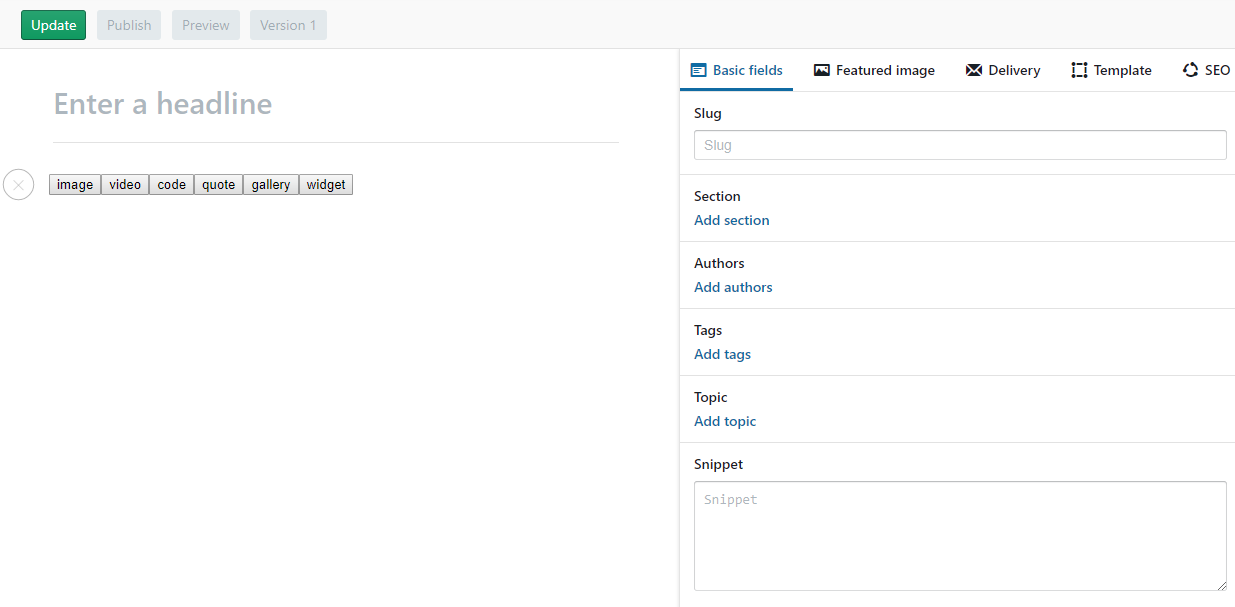
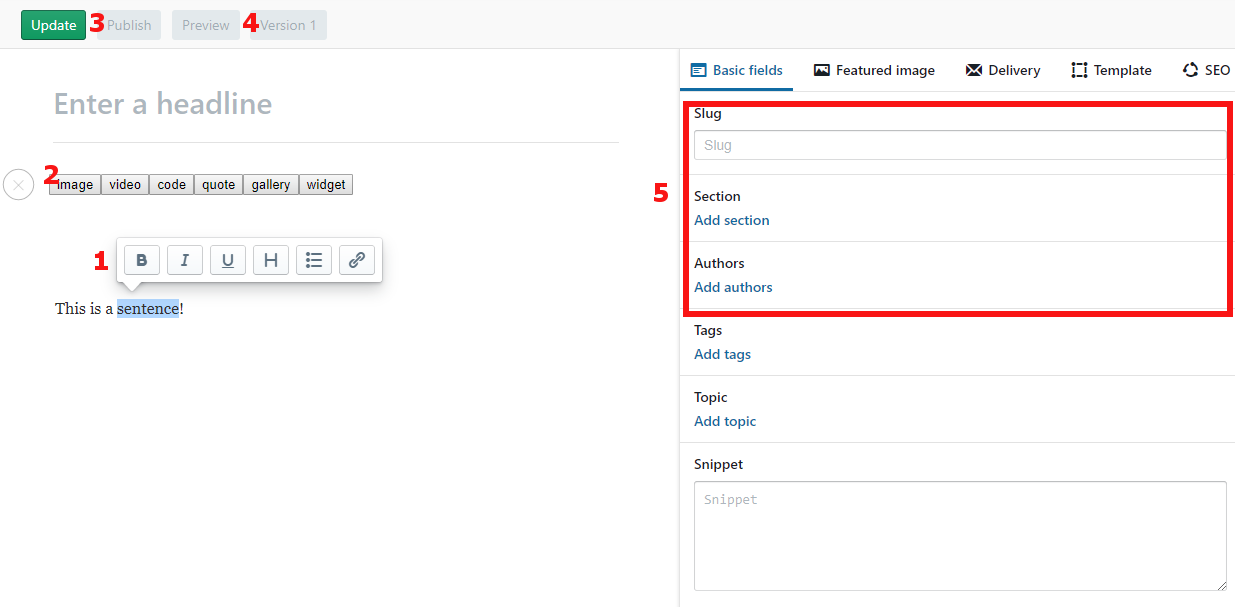
add reference points to editor image

diff --git a/docs/manager.md b/docs/manager.md
@@ -20,19 +20,19 @@ After creating at least one section, you can start creating articles.
 
 Click on the 'New Article' button on the dashboard, or on the section along the top to choose an existing article to edit.
 
-You can edit the article using the rich text editor on the left. Highlight a portion of text to bring up a menu to choose text styling options.
+You can edit the article using the rich text editor on the left. Highlight a portion of text to bring up a menu to choose text styling options. (1)
 
-To insert an embedded entity, such as an image, video, quote, image gallery, widget, or to add custom html, js, or css to the article, start a new (blank) line, and press the + sign that appears to left. Select the type of embed you would like to use. Fill in the parameters that appear.
+To insert an embedded entity, such as an image, video, quote, image gallery, widget, or to add custom html, js, or css to the article, start a new (blank) line, and press the + sign that appears to left. Select the type of embed you would like to use. Fill in the parameters that appear. (2)
 
 ![Article Editing Interface](./img/article_interface.png)
 
-When you save an article, it is not published immediately. You must press the publish button in order for it be flagged as published.
+When you save an article, it is not published immediately. You must press the publish button in order for it be flagged as published. (3)
 
 The editor also maintains previous versions. Updating a published article will not changed the published version. You must republish the new version.
 
-You can view previous versions by pressing the 'Version *' dropdown on the toolbar.
+You can view previous versions by pressing the 'Version *' dropdown on the toolbar. (4)
 
-Also note that a slug, section, and author must be set in order for an article to be saved.
+Also note that a slug, section, and author must be set in order for an article to be saved. (5)
 
 ## Creating and Editing Pages
 
